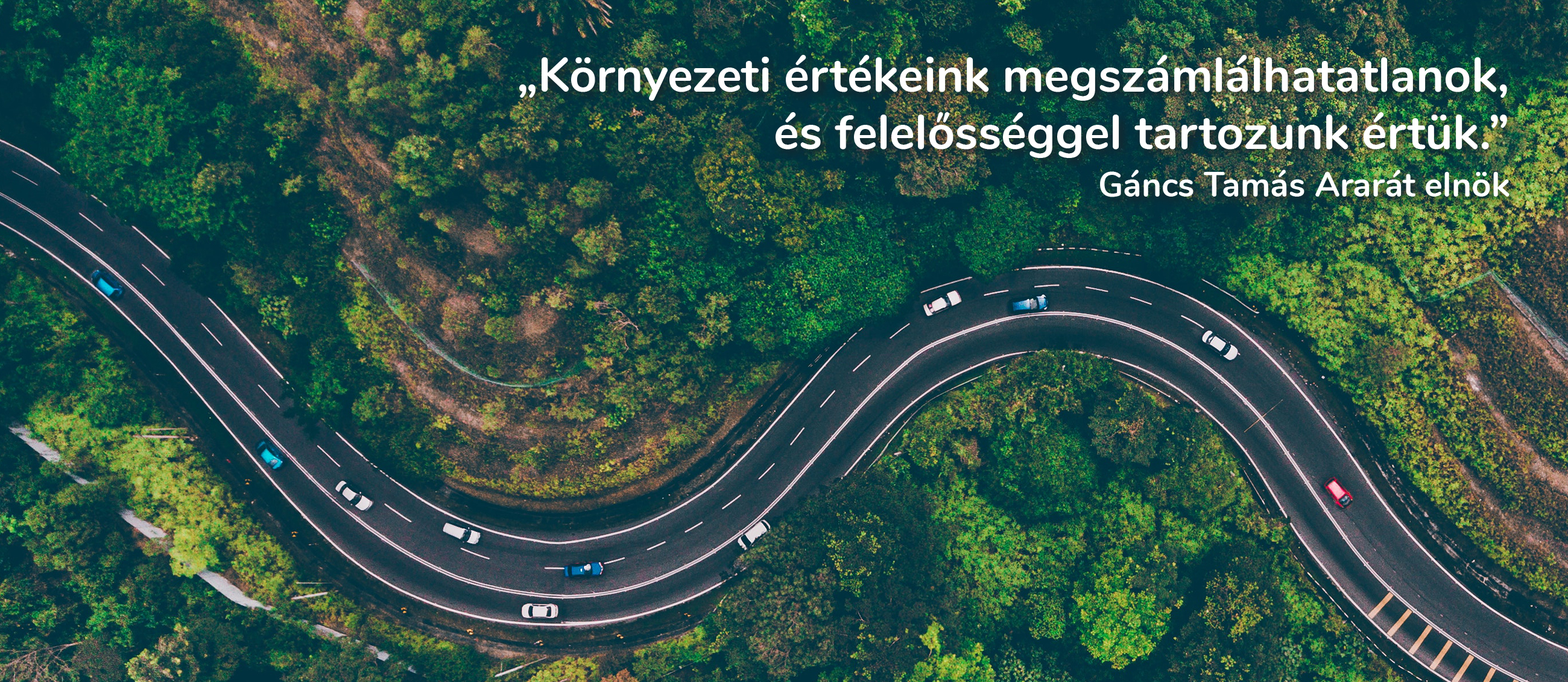
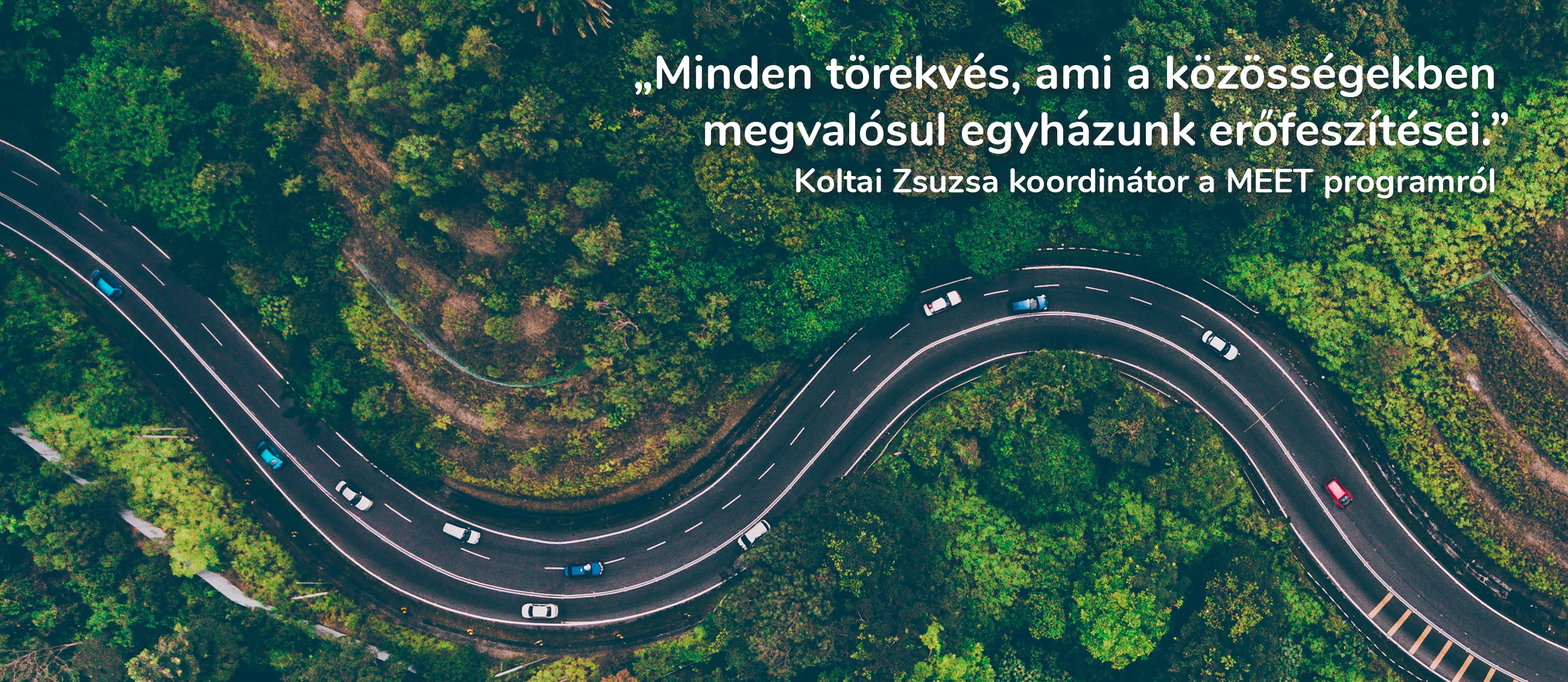
--enh Home slider

Changed region(s): [[0.3115, 0.0619, 0.9658, 0.3095]]

diff --git a/frontend/sites/_home.sass b/frontend/sites/_home.sass
@@ -5,11 +5,15 @@
 		position: relative
 		overflow: hidden
 		border-radius: $border-radius-lg
-	img
-		position: absolute
-		top: 0px
-		left: 0px
-		max-width: 100%
+		.heroInner
+			position: absolute
+			width: 100%
+			height: 100%
+			top: 0px
+			left: 0px
+
+	.carousel-control-next, .carousel-control-prev
+		width: 7%
 
 
 	.teasers

diff --git a/frontend/app.js b/frontend/app.js
@@ -7,6 +7,9 @@ import Sticky from "sticky-js"
 
 
 $(function () {
+
+	$('#heroSlider').carousel();
+
 	$('[data-toggle="tooltip"]').tooltip({});
 
 	$(document).on('click', 'a.logoutLink', function () {

diff --git a/views/site/home.php b/views/site/home.php
@@ -4,7 +4,32 @@ $this->title = 'Főoldal';
 ?>
 
 <div class="hero">
-	<img src="/assets/img/meet_slider_01.jpg" alt="MEET">
+	<div class="heroInner">
+		<div id="heroSlider" class="carousel slide" data-ride="carousel">
+			<ol class="carousel-indicators">
+				<?php for ($i = 0; $i < 8; $i ++) { ?>
+					<li data-target="#heroSliderIndicators" data-slide-to="<?=$i;?>" <?php if ($i === 0) { ?>class="active"<?php } ?>></li>
+				<?php } ?>
+			</ol>
+			<div class="carousel-inner">
+				<?php for ($i = 0; $i < 8; $i ++) { ?>
+					<div class="carousel-item <?php if ($i === 0) { ?>active<?php } ?>">
+						<img class="d-block w-100"
+							 src="/assets/img/meet_slider_<?=str_pad($i + 1, 2, '0', STR_PAD_LEFT);?>.jpg"
+							 alt="MEET" />
+					</div>
+				<?php } ?>
+			</div>
+			<a class="carousel-control-prev" href="#heroSlider" role="button" data-slide="prev">
+				<span class="carousel-control-prev-icon" aria-hidden="true"></span>
+				<span class="sr-only">Előző</span>
+			</a>
+			<a class="carousel-control-next" href="#heroSlider" role="button" data-slide="next">
+				<span class="carousel-control-next-icon" aria-hidden="true"></span>
+				<span class="sr-only">Következő</span>
+			</a>
+		</div>
+	</div>
 </div>
 
 <div class="teasers">

diff --git a/views/layouts/main.php b/views/layouts/main.php
@@ -49,7 +49,6 @@ AppAsset::register($this);
 					<li class="nav-item"><a href="/belepes" class="nav-link">Belépés</a></li>
 					<li class="nav-item"><a href="/regisztracio" class="nav-link">Regisztráció</a></li>
 				<?php } else { ?>
-					<li class="nav-item"><a href="/kerdesek" class="nav-link">Kérdések</a></li>
 					<?php if (Yii::$app->user->getIdentity()->hasCommitmentFill()) {?>
 						<li class="nav-item"><a href="/vallalasok" class="nav-link">Vállalásaim</a></li>
 					<?php } ?>
